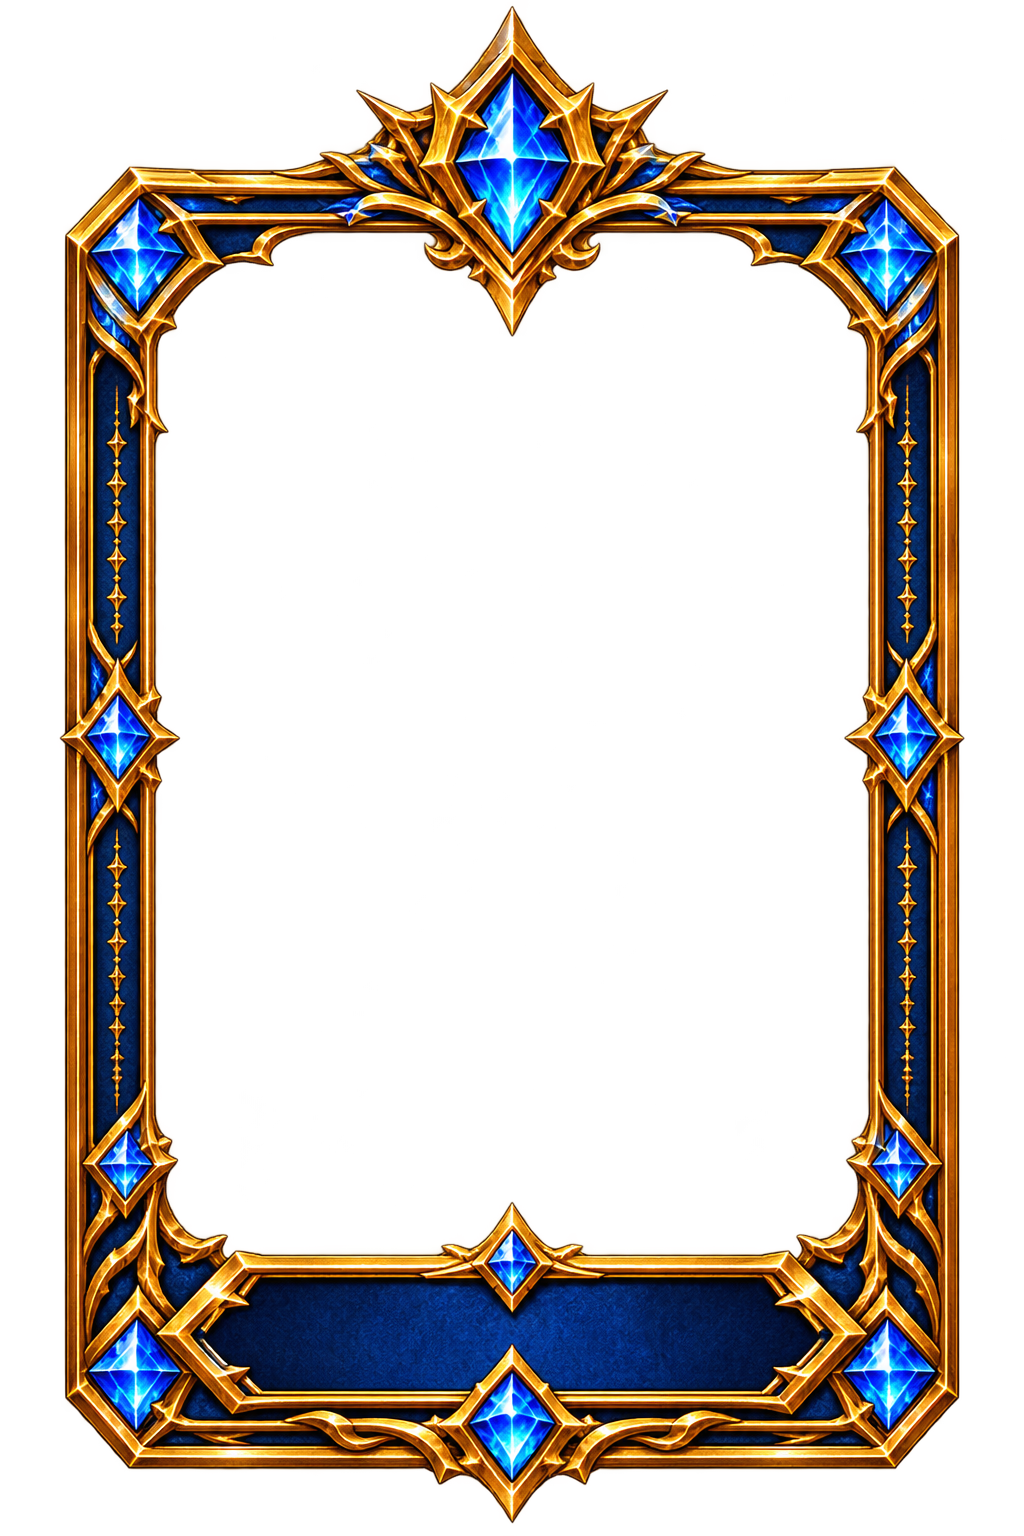
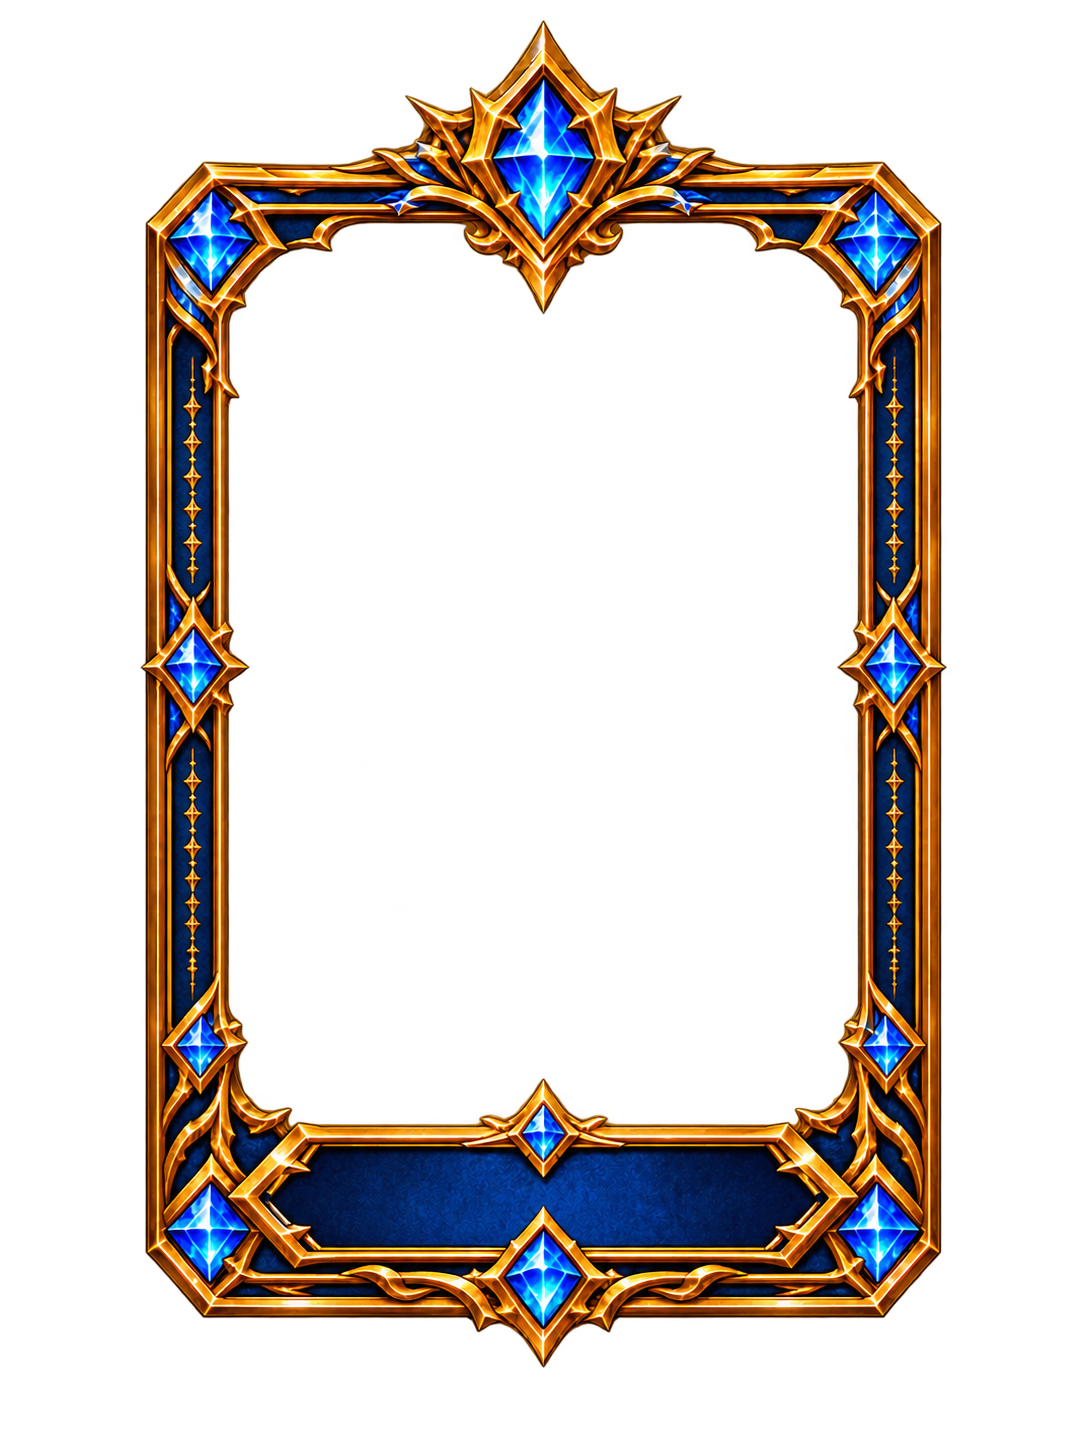
スマホ用に位置調整

diff --git a/gacha-game/styles.css b/gacha-game/styles.css
@@ -1581,3 +1581,156 @@
     bottom:15.6%;
   }
 }
+
+
+/* =========================================================
+   v7 調整
+   ・キャラクターをもう少しだけ小さく
+   ・N / R / SR / UR でフレーム切り替え
+   ========================================================= */
+
+/* 基本のキャラ表示をほんの少し縮小 */
+.card-character{
+  width:92%;
+  height:92%;
+}
+
+/* URは装飾が強いので少しだけさらに余裕を取る */
+.layered-card.rarity-ur .card-character{
+  width:90%;
+  height:90%;
+}
+
+/* 12連一覧では小型表示なので少しだけ見やすく戻す */
+.result-card.twelve-mode .ten-layered-card .card-character{
+  width:94%;
+  height:94%;
+}
+
+.result-card.twelve-mode .ten-layered-card.rarity-ur .card-character{
+  width:92%;
+  height:92%;
+}
+
+
+/* =========================================================
+   v8 スマホ結果画面の見直し
+   幅だけでなく画面高さ(dvh)でもカードサイズを制限する。
+   ========================================================= */
+
+@media (max-width:820px){
+
+  /* ---------- 1連：結果画面 ---------- */
+  .result-card:not(.twelve-mode){
+    padding:2dvh 3vw;
+  }
+
+  .result-card:not(.twelve-mode) .result-inner{
+    width:min(92vw, 360px);
+    max-height:94dvh;
+    padding:16px 14px 14px;
+    overflow:auto;
+  }
+
+  .result-card:not(.twelve-mode) .result-rarity{
+    margin:0 0 4px;
+    font-size:clamp(26px, 8vw, 38px);
+  }
+
+  /*
+    以前は 68vw だったため縦長カードがかなり巨大になっていた。
+    高さ基準も加えて最大220px程度に抑える。
+  */
+  .result-card:not(.twelve-mode) .result-layered-card{
+    width:min(54vw, 34dvh, 220px);
+    margin:6px auto 10px;
+  }
+
+  .result-card:not(.twelve-mode) .result-title{
+    margin:6px 0 12px;
+    font-size:clamp(18px, 5vw, 24px);
+  }
+
+  .result-card:not(.twelve-mode) #closeResult{
+    padding:8px 20px;
+    font-size:14px;
+  }
+
+
+  /* ---------- カード排出中 ---------- */
+  .card-eject-layer .eject-card{
+    width:min(52vw, 32dvh, 210px);
+  }
+
+
+  /* ---------- 12連：専用結果画面 ---------- */
+  .result-card.twelve-mode{
+    padding:.8dvh 1vw;
+  }
+
+  .result-card.twelve-mode .result-inner{
+    width:98vw;
+    height:97dvh;
+    padding:1.2dvh 1vw .8dvh;
+  }
+
+  .result-card.twelve-mode .ten-result-title{
+    margin:0 0 .7dvh;
+    font-size:clamp(17px, 4.8vw, 22px);
+  }
+
+  .result-card.twelve-mode .ten-card-grid{
+    width:100%;
+    gap:.55dvh 1.2vw;
+    grid-template-columns:repeat(4, auto);
+    grid-template-rows:repeat(3, auto);
+  }
+
+  /*
+    4×3が確実に収まるよう、カード幅を高さで強めに制限。
+    1448/1086 ≒ 1.333 なので3段でも余裕を残せる。
+  */
+  .result-card.twelve-mode .ten-card-item{
+    width:min(21vw, 12.8dvh, 112px);
+  }
+
+  .result-card.twelve-mode .ten-layered-card .card-rarity-label{
+    top:3.8%;
+    right:6%;
+    min-width:2.1em;
+    padding:.18em .34em;
+    font-size:clamp(5px, 1.35vw, 7px);
+  }
+
+  .result-card.twelve-mode .ten-layered-card .card-name{
+    font-size:clamp(4px, 1.18vw, 6px);
+  }
+
+  .result-card.twelve-mode #closeResult{
+    min-width:110px;
+    margin-top:.55dvh;
+    padding:6px 16px;
+    font-size:12px;
+  }
+}
+
+
+/* 高さが特に低いスマホ向け */
+@media (max-width:820px) and (max-height:700px){
+
+  .result-card:not(.twelve-mode) .result-layered-card{
+    width:min(48vw, 29dvh, 180px);
+  }
+
+  .card-eject-layer .eject-card{
+    width:min(46vw, 28dvh, 175px);
+  }
+
+  .result-card.twelve-mode .ten-card-item{
+    width:min(20vw, 11.6dvh, 98px);
+  }
+
+  .result-card.twelve-mode .ten-result-title{
+    font-size:16px;
+  }
+}

diff --git a/gacha-game/script.js b/gacha-game/script.js
@@ -54,8 +54,8 @@ const RARITY_COLORS = {
 };
 
 const FRAME_BY_RARITY = {
-  N:'assets/card_frame_sr.png',
-  R:'assets/card_frame_sr.png',
+  N:'assets/card_frame_n.png',
+  R:'assets/card_frame_r.png',
   SR:'assets/card_frame_sr.png',
   UR:'assets/card_frame_ur.png'
 };
